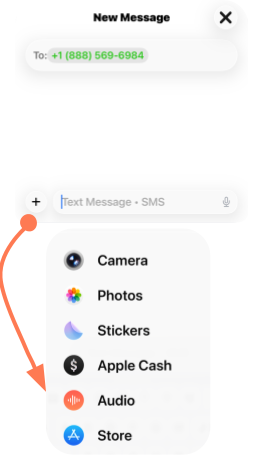
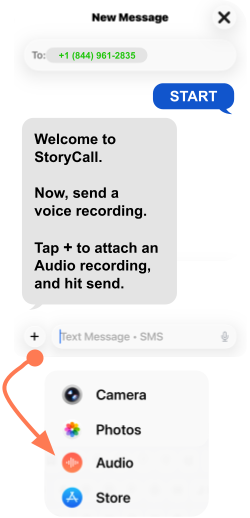
What's Next

diff --git a/index.html b/index.html
@@ -25,24 +25,20 @@
     <div class="hero">
       <div class="hero_copy">
 
+        <div class="hero_face hero_face_kid hero_face_float_right" aria-hidden="true"></div>
 
         <h2>Grandma's got a new way to text.</h2>
-
-
-        <div class="hero_face hero_face_kid hero_face_float_right" aria-hidden="true"></div>
         
+
         <p class="note hero_tagline">
-          Exchange voice between SMS and traditional phones.
+          Exchange voice messages between SMS and old phones.
         </p>
-
-
-
-        <div class="hero_face hero_face_granny hero_face_float_left" aria-hidden="true"></div>
 
         <p class="note">
-          First, you make a voice recording and text it to <span class="nowrap">888-569-6984</span>.
+          First, you make a voice recording and text it to <span class="nowrap">844-961-2835</span>.
         </p>
 
+        <div class="hero_face hero_face_granny hero_face_float_left" aria-hidden="true"></div>
 
         <p class="note">
           Then we call Grandma's phone and play your recording.
@@ -63,26 +59,28 @@
       <h2>Try it</h2>
       <div class="box">
         <p class="note">
-          Click to start a text message and attach a voice recording.
+          To begin, click here to text <b>STORYCALL</b> to us.
         </p>
         <div class="button_row">
-          <a class="btn primary" href="sms:+18885696984">Text 888-569-6984</a>
+          <a class="btn primary" href="sms:+18449612835?&body=START%20">Text 844-961-2835</a>
         </div>
         <details class="try_see_how drawer_row">
           <summary>
-            <span class="summary_text">See how</span>
+            <span class="summary_text">What happens next?</span>
             <span class="caret" aria-hidden="true">›</span>
           </summary>
           <div class="content">
             <p class="note">
-              Note: Create a voice recording. Do not use speech-to-text dictation.
+              After you send us a text, we send a welcome message.
             </p>
             <p class="note">
-              <b>Here are the steps:</b>
+              Reply to this with a voice recording to Grandma — not speech-to-text dictation, but a voice recording.
+            </p>
+            <p class="note">
+              Here's how:
             </p>
             <ol class="mini">
-              <li>Start a text message to <span class="nowrap">888-569-6984</span>.</li>
-              <li>Tap the <b>+</b> (or attachment) button.</li>
+              <li>Tap the <b>+</b> attachment button.</li>
               <li>Choose <b>Audio</b>/<b>Voice</b>.</li>
               <li>Record your message.</li>
               <li>Send.</li>
@@ -150,10 +148,10 @@
       <h2>Need help?</h2>
       <div class="box">
         <div class="mini">
-          Send a text-only message to the same number, <span class="nowrap">888-569-6984</span>, for help.
+          Send a text-only message to the same number, <span class="nowrap">844-961-2835</span>, for help.
         </div>
         <div class="button_row">
-          <a class="btn primary" href="sms:+18885696984?&body=HELP%20">Text Help</a>
+          <a class="btn primary" href="sms:+18449612835?&body=HELP%20">Text Help</a>
         </div>
       </div>
     </section>

diff --git a/index.css b/index.css
@@ -17,7 +17,7 @@
       --hero_margin_top       : var(--space_medium);
       --hero_margin_top_mobile: var(--space_small);
 
-      --face_size             : 14.4rem;
+      --face_size             : 12.96rem;
       --face_zoom             : 175%;
       --face_granny_zoom      : 190%;
       --face_margin           : 0px;
@@ -218,6 +218,13 @@
       max-width         : var(--text_measure_wide);
       text-align        : left;
     }
+    .note.hero_tagline{
+      font-family       : ui-serif, Georgia, "Times New Roman", Times, serif;
+      font-style        : italic;
+      font-size         : .88em;
+      margin-top        : var(--space_small);
+      margin-bottom     : var(--space_large);
+    }
     .note b{
       color             : var(--color_text_primary);
     }
@@ -271,6 +278,12 @@
       margin             : 0;
       padding-left       : 0;
       list-style-position: inside;
+    }
+    #try details.try_see_how .drawer_note{
+      margin            : calc(-1 * var(--space_small)) 0 var(--space_small);
+      padding-left      : .9em;
+      font-style        : italic;
+      font-size         : .92em;
     }
     #try .try_disclaimer{
       border-top        : var(--border_default);
@@ -555,7 +568,7 @@
         --font_size_body   : 22px;
         --font_size_heading: 28px;
 
-        --face_size     : 12rem;
+        --face_size     : 10.8rem;
       }
       .bar{
         padding         : var(--header_footer_padding_y) 0;

diff --git a/terms.html b/terms.html
@@ -64,7 +64,7 @@
         <p><b>3.2 Recipient opt-out</b></p>
         <ul>
           <li>
-            Recipients can stop future calls by texting <b>STOP</b> to <a class="sms_link" href="sms:+18885696984"><b>888-569-6984</b></a> at any time. You agree not to attempt to override
+            Recipients can stop future calls by texting <b>STOP</b> to <a class="sms_link" href="sms:+18449612835"><b>844-961-2835</b></a> at any time. You agree not to attempt to override
             or circumvent opt-out.
           </li>
         </ul>
@@ -115,7 +115,7 @@
         <ul>
           <li>We aim to provide a reliable Service, but we do not guarantee uninterrupted availability.</li>
           <li>We may modify or discontinue features to improve the Service or for safety, legal, or operational reasons.</li>
-          <li>Support requests can be sent to <b>help@storycall.org</b> or by texting <b>HELP</b> to <a class="sms_link" href="sms:+18885696984"><b>888-569-6984</b></a>.</li>
+          <li>Support requests can be sent to <b>help@storycall.org</b> or by texting <b>HELP</b> to <a class="sms_link" href="sms:+18449612835"><b>844-961-2835</b></a>.</li>
         </ul>
   
         <p><b>9. Fees and Carrier Charges</b></p>

diff --git a/privacy.html b/privacy.html
@@ -147,7 +147,7 @@
   
         <p><b>8. Your Choices and Rights</b></p>
         <ul>
-          <li><b>Opt-out (Recipients):</b> Recipients can stop future calls by texting <b>STOP</b> to <a class="sms_link" href="sms:+18885696984"><b>888-569-6984</b></a> at any time. Texting the StoryCall number constitutes consent to receive transactional SMS messages and automated voice calls related to message delivery.
+          <li><b>Opt-out (Recipients):</b> Recipients can stop future calls by texting <b>STOP</b> to <a class="sms_link" href="sms:+18449612835"><b>844-961-2835</b></a> at any time. Texting the StoryCall number constitutes consent to receive transactional SMS messages and automated voice calls related to message delivery.
           </li>
           
           <li><b>Access/correction:</b> You may request access to or correction of your account information.</li>
